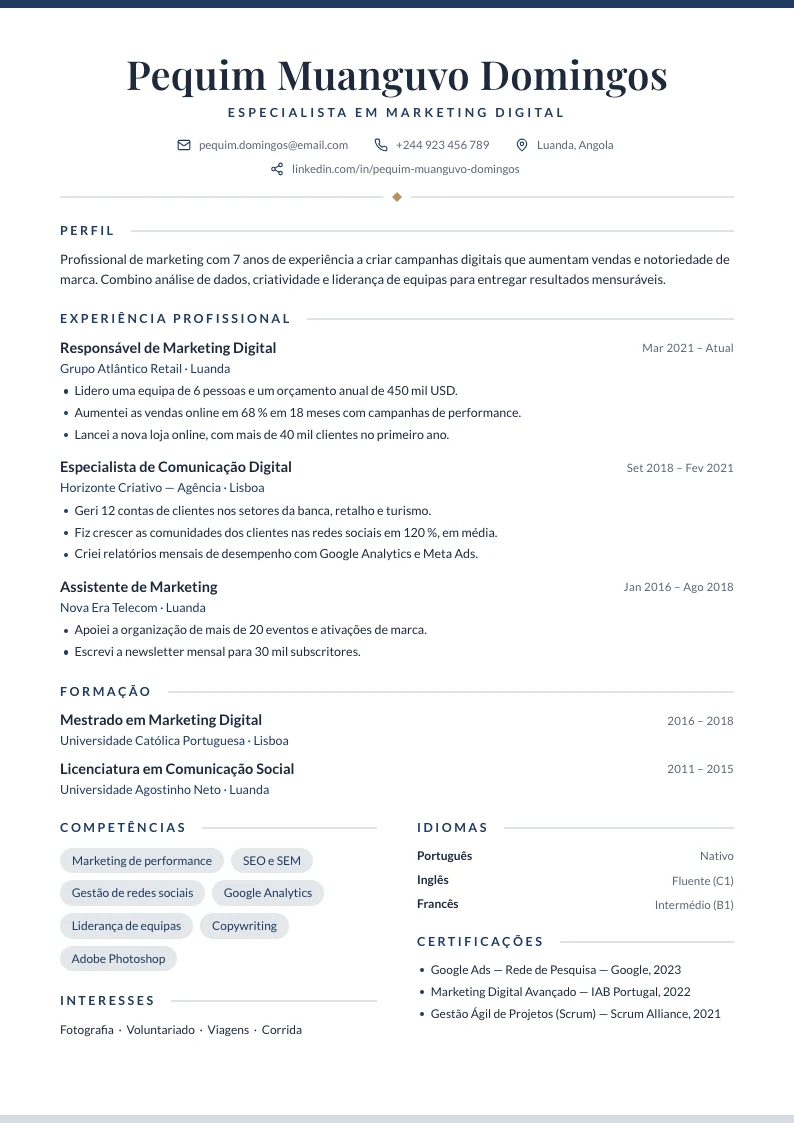
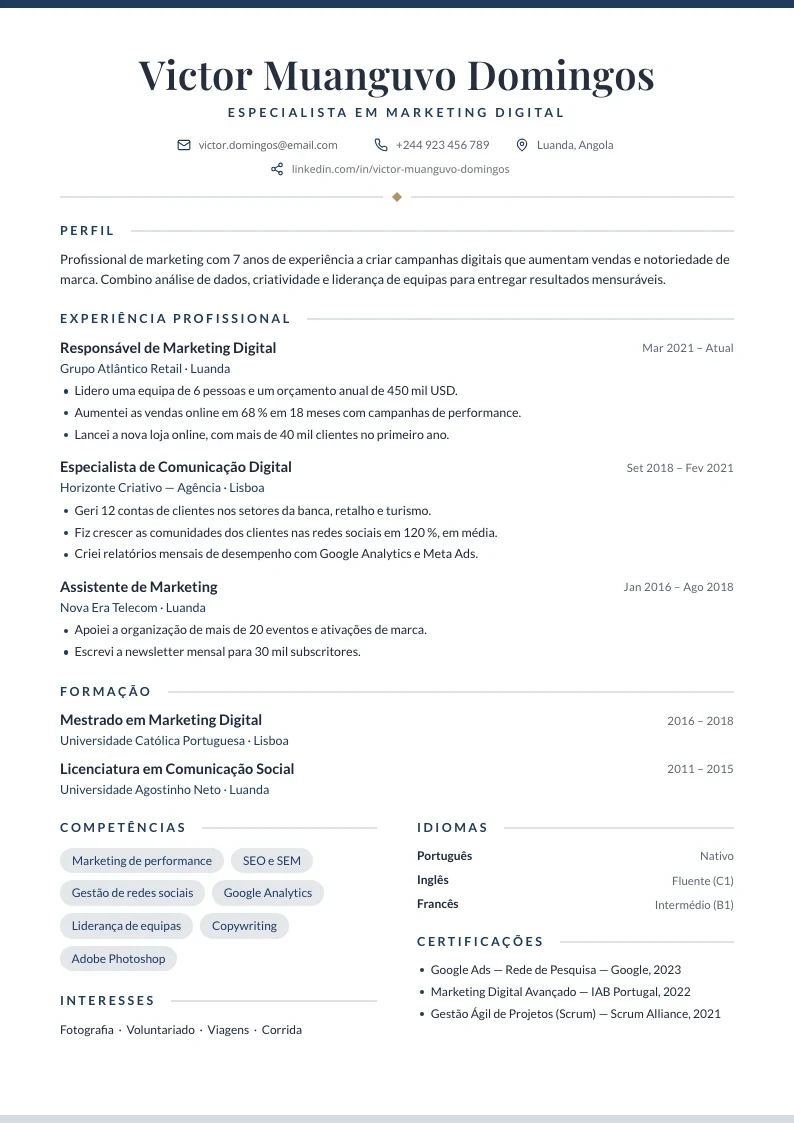
3.0v

diff --git a/index.html b/index.html
@@ -86,7 +86,7 @@
               <span class="island"></span>
             </div>
           </div>
-          <div class="layer" data-depth="44"><div class="chip chip-pdf"><i class="fi fi-pdf">PDF</i><span>Pronto a enviar<small>CV — Pequim Domingos.pdf</small></span></div></div>
+          <div class="layer" data-depth="44"><div class="chip chip-pdf"><i class="fi fi-pdf">PDF</i><span>Pronto a enviar<small>CV — Victor Domingos.pdf</small></span></div></div>
           <div class="layer" data-depth="36"><div class="chip chip-sync"><svg viewBox="0 0 24 24"><path d="M5 12.5l4.5 4.5L19 7.5" fill="none" stroke="currentColor" stroke-width="2.6" stroke-linecap="round" stroke-linejoin="round"/></svg>Alterações guardadas</div></div>
           <div class="layer" data-depth="28"><div class="chip chip-palette"><span style="background:#0A2A6B"></span><span style="background:#2B8AF7"></span><span style="background:#1F7A4D"></span><span style="background:#C2562F"></span></div></div>
         </div>
@@ -188,7 +188,7 @@
             <div class="mini-cv-wrap" aria-hidden="true">
               <div class="mini-cv" id="miniCv">
                 <aside class="mc-side">
-                  <span class="mc-avatar">PD</span>
+                  <span class="mc-avatar">VD</span>
                   <span class="mc-h">Contacto</span>
                   <i style="width:80%"></i><i style="width:64%"></i><i style="width:72%"></i>
                   <span class="mc-h">Competências</span>
@@ -197,7 +197,7 @@
                   <i style="width:60%"></i><i style="width:48%"></i>
                 </aside>
                 <div class="mc-main">
-                  <strong class="mc-name">Pequim Muanguvo Domingos</strong>
+                  <strong class="mc-name">Victor Muanguvo Domingos</strong>
                   <span class="mc-role">Especialista em Marketing Digital</span>
                   <span class="mc-t">Perfil</span>
                   <i></i><i></i><i style="width:76%"></i>
